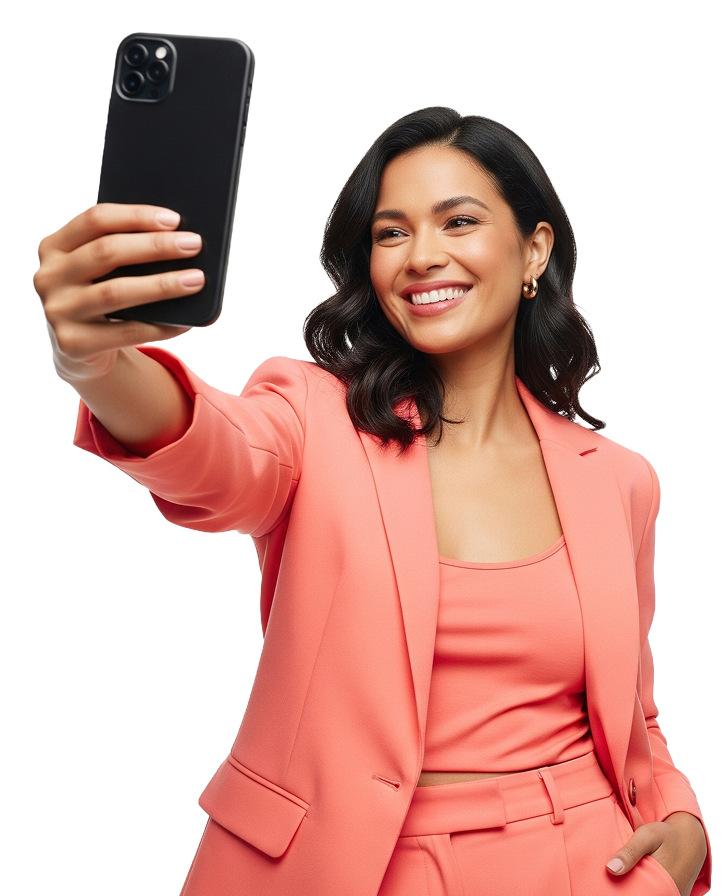
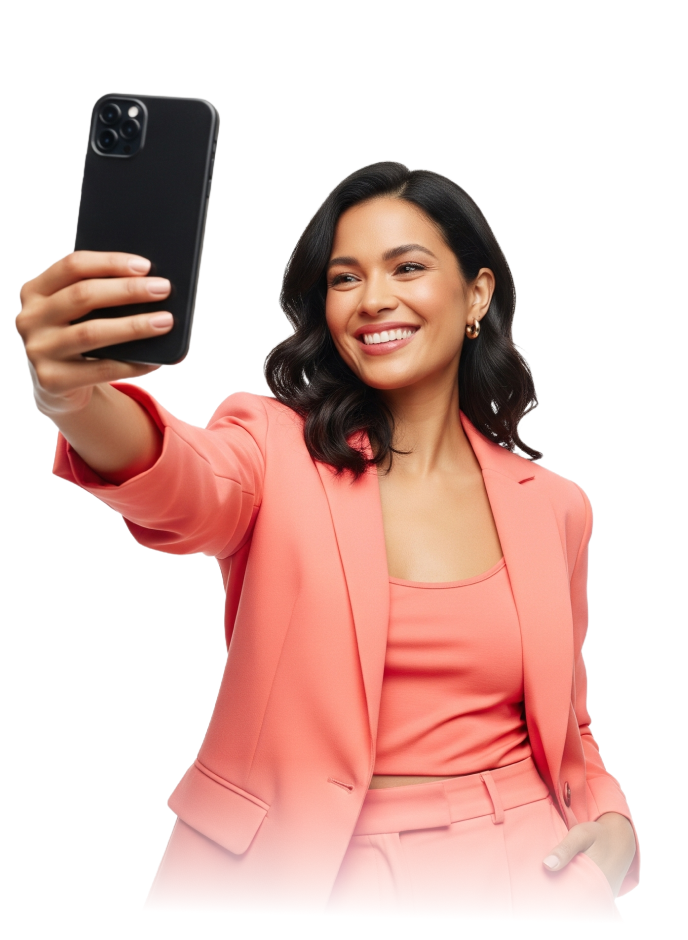
fix: mobile responsiveness

diff --git a/src/components/sections/faq-section.tsx b/src/components/sections/faq-section.tsx
@@ -9,10 +9,8 @@ import {
 import { Container } from "../ui/container";
 import { Avatar, AvatarImage, AvatarFallback } from "../ui/avatar";
 import { PrimaryButton } from "../ui/primary-button";
-import { ArrowRight, ChevronRight } from "lucide-react";
-import Image from "next/image";
+import { ArrowRight } from "lucide-react";
 import Link from "next/link";
-import { HeroIcon } from "../svg/hero-icon";
 
 export interface FAQ {
   question: string;
@@ -23,86 +21,87 @@ const testimonialAvatars = [
   {
     src: "/testimonials/home/ana-paula.jpg",
     alt: "Ana Paula",
-    initials: "AP"
+    initials: "AP",
   },
   {
-    src: "/testimonials/home/carlos-men.jpg", 
+    src: "/testimonials/home/carlos-men.jpg",
     alt: "Carlos Mendes",
-    initials: "CM"
+    initials: "CM",
   },
   {
     src: "/testimonials/home/jorge-santana.jpg",
     alt: "Jorge Santana",
-    initials: "JS"
+    initials: "JS",
   },
   {
     src: "/testimonials/home/maria-silva.jpg",
     alt: "Maria Silva",
-    initials: "MS"
-  }
+    initials: "MS",
+  },
 ];
 
 export default function FAQSection({ faq }: { faq: FAQ[] }) {
   return (
     <section className="w-full py-10 md:py-16 bg-white">
       <Container className="px-4 md:px-6">
-        <div className="flex flex-col md:flex-row gap-8 md:gap-12 lg:gap-16">
-          {/* Left column with title and CTA for desktop */}
-          <div className="w-full md:w-5/12 lg:w-4/12">
-            <div className="md:sticky md:top-20">
+        <div className="flex flex-col lg:flex-row gap-8 lg:gap-12 xl:gap-16">
+          {/* Left column: Title, description, testimonials, CTA */}
+          <div className="w-full lg:w-5/12 xl:w-4/12 order-1 lg:order-1">
+            <div className="lg:sticky lg:top-20">
               <h2 className="text-2xl md:text-3xl font-bold mb-4 md:mb-6">
                 Perguntas frequentes
               </h2>
-              <p className="text-gray-700 mb-6 hidden md:block">
-                Tudo que você precisa saber sobre a Pandami, desde a compra à usabilidade.
+              <p className="text-gray-700 mb-6 md:mb-8">
+                Tudo que você precisa saber sobre a Pandami, desde a compra à
+                usabilidade.
               </p>
-              
-              {/* Testimonial avatars */}
-              <div className="hidden md:block mt-8">
+
+              {/* Testimonials and CTA - positioned after description on mobile, sticky on desktop */}
+              <div className="flex flex-col gap-4">
                 <div className="flex flex-col gap-2">
-                  <div className="flex -space-x-2">
+                  <div className="flex -space-x-2 justify-center lg:justify-start">
                     {testimonialAvatars.map((avatar, i) => (
-                      <Avatar key={i} className="border-2 border-white h-9 w-9">
+                      <Avatar
+                        key={i}
+                        className="border-2 border-white h-8 w-8 md:h-9 md:w-9"
+                      >
                         <AvatarImage src={avatar.src} alt={avatar.alt} />
                         <AvatarFallback>{avatar.initials}</AvatarFallback>
                       </Avatar>
                     ))}
                   </div>
-                  <p className="text-sm text-gray-600">
+                  <p className="text-sm text-gray-600 text-center lg:text-left">
                     +2 mil homens e mulheres já descobriram sua melhor versão
                   </p>
-                  <div className="mt-2">
-                    <Link href="/#">
-                      <PrimaryButton
-                        size="lg"
-                        icon={<ArrowRight className="h-4 w-4" />}
-                        className="w-full md:w-auto justify-center"
-                      >
-                        Comece grátis
-                      </PrimaryButton>
-                    </Link>
-                  </div>
+                </div>
+                <div className="flex justify-center lg:justify-start">
+                  <Link href="/#" className="w-full">
+                    <PrimaryButton
+                      size="lg"
+                      icon={<ArrowRight className="h-4 w-4" />}
+                      className="w-full md:w-auto"
+                    >
+                      Comece grátis
+                    </PrimaryButton>
+                  </Link>
                 </div>
               </div>
             </div>
           </div>
 
-          {/* Right column with accordion */}
-          <div className="w-full md:w-7/12 lg:w-8/12">
-            {/* Mobile version of the subtitle */}
-            <p className="text-gray-700 mb-6 md:hidden">
-              Tudo que você precisa saber sobre a Pandami, desde a compra à usabilidade.
-            </p>
-            
+          {/* Right column: Accordion */}
+          <div className="w-full lg:w-7/12 xl:w-8/12 order-2 lg:order-2">
             <Accordion type="single" collapsible className="space-y-2">
               {faq.map((item, index) => (
-                <AccordionItem 
-                  key={`faq-${index}`} 
-                  value={`faq-${index}`} 
+                <AccordionItem
+                  key={`faq-${index}`}
+                  value={`faq-${index}`}
                   className="border-b border-gray-200 overflow-hidden"
                 >
                   <AccordionTrigger className="px-2 py-4 hover:no-underline text-left">
-                    <span className="text-left font-medium text-sm md:text-base">{item.question}</span>
+                    <span className="text-left font-medium text-sm md:text-base font-sans">
+                      {item.question}
+                    </span>
                   </AccordionTrigger>
                   <AccordionContent className="px-2 pb-4 pt-0">
                     <p className="text-gray-600 text-sm md:text-base">
@@ -112,32 +111,6 @@ export default function FAQSection({ faq }: { faq: FAQ[] }) {
                 </AccordionItem>
               ))}
             </Accordion>
-          </div>
-        </div>
-        
-        {/* Mobile testimonial and CTA */}
-        <div id="faq" className="mt-8 md:hidden">
-          <div className="flex items-center justify-center flex-col">
-            <div className="flex -space-x-2 mb-2">
-              {testimonialAvatars.map((avatar, i) => (
-                <Avatar key={i} className="border-2 border-white h-8 w-8">
-                  <AvatarImage src={avatar.src} alt={avatar.alt} />
-                  <AvatarFallback>{avatar.initials}</AvatarFallback>
-                </Avatar>
-              ))}
-            </div>
-            <p className="text-xs text-gray-600 text-center mb-4">
-              +2 mil homens e mulheres já descobriram sua melhor versão
-            </p>
-            <Link href="/#">
-              <PrimaryButton
-                size="lg"
-                icon={<ChevronRight className="h-16 w-16" />}
-                className="w-full justify-center"
-              >
-                Comece grátis
-              </PrimaryButton>
-            </Link>
           </div>
         </div>
       </Container>

diff --git a/src/components/header.tsx b/src/components/header.tsx
@@ -75,7 +75,7 @@ export function Header() {
   return (
     <>
       {/* Header Principal - Desktop e Mobile */}
-      <header className={`w-full border-b py-4 fixed top-0 left-0 right-0 z-50 ${isScrolled ? 'bg-background/80 backdrop-blur-md' : 'bg-background/60 backdrop-blur-sm'}`}>
+      <header className={`w-screen border-b py-4 fixed top-0 left-0 right-0 z-50 ${isScrolled ? 'bg-background/80 backdrop-blur-md' : 'bg-background/60 backdrop-blur-sm'}`}>
         <Container>
           <div className="flex items-center justify-between w-full">
             {/* Logo */}
@@ -96,7 +96,7 @@ export function Header() {
             </div>
 
             {/* Nav Items - Apenas Desktop */}
-            <nav className="hidden md:flex items-center justify-center flex-1">
+            <nav className="hidden lg:flex items-center justify-center flex-1">
               {navItems.map((item) => (
                 <div key={item.title} className="mr-8 last:mr-0">
                   {item.hasDropdown ? (
@@ -124,7 +124,7 @@ export function Header() {
             </nav>
 
             {/* Botões e controles - Desktop */}
-            <div className="hidden md:flex items-center space-x-4 flex-1 justify-end">
+            <div className="hidden lg:flex items-center space-x-4 flex-1 justify-end">
               <ThemeToggle />
 
               <button
@@ -147,7 +147,7 @@ export function Header() {
             </div>
 
             {/* Menu Mobile Toggle */}
-            <div className="md:hidden flex items-center gap-2">
+            <div className="lg:hidden flex items-center gap-2">
               <ThemeToggle />
               <button
                 className="p-2 rounded-md hover:bg-accent"
@@ -262,7 +262,7 @@ export function Header() {
       {/* Dropdown de Idioma */}
       {activeDropdown === 'language' && (
         <div 
-          className="absolute md:fixed top-[82px] right-4 md:right-80 z-50 bg-background/95 backdrop-blur-md border border-border rounded-md shadow-lg"
+          className="absolute lg:fixed top-[82px] right-4 lg:right-80 z-50 bg-background/95 backdrop-blur-md border border-border rounded-md shadow-lg"
           onClick={(e) => e.stopPropagation()}
         >
           <div className="py-2">

diff --git a/src/components/sections/cta-section.tsx b/src/components/sections/cta-section.tsx
@@ -12,7 +12,7 @@ export const CtaSection: React.FC = () => {
 			<Container>
 				{" "}
 				<div className="relative">
-					<div className="px-6 md:px-16 py-8 bg-orange-50 rounded-2xl flex flex-col md:flex-row-reverse justify-between items-center gap-8 md:gap-10 overflow-hidden ">
+					<div className="px-6 md:px-16 py-8 mt-96 md:mt-0 bg-orange-50 rounded-2xl flex flex-col-reverse md:flex-row-reverse justify-between items-center gap-8 md:gap-10 overflow-hidden ">
 						{/* Textos e botão */}
 						<div className="w-full md:w-1/2 lg:max-w-[560px] flex flex-col gap-6 z-10">
 							<div className="flex flex-col gap-3">
@@ -30,7 +30,7 @@ export const CtaSection: React.FC = () => {
 								<PrimaryButton
 									size="lg"
 									icon={<ArrowRight className="h-4 w-4" />}
-									className="max-w-72 px-4"
+									className="w-full md:max-w-72 px-4"
 								>
 									Comece grátis
 								</PrimaryButton>
@@ -40,17 +40,17 @@ export const CtaSection: React.FC = () => {
 						{/* Imagem */}
 						{/* Elementos decorativos */}
 						<div className="relative right-1/2  -mb-20 md:left-auto md:right-10 md:translate-x-0 z-0 opacity-40 md:opacity-70">
-							<div className="w-[489px] h-[252px] md:w-full md:h-full">
+							<div className="w-96 h-64 lg:w-full lg:h-full -rotate-45 md:rotate-0">
 								<HeroIcon className="w-full h-full" />
 							</div>
 						</div>
-						<div className="md:absolute md:left-24 md:bottom-0 z-20">
+						<div className="absolute -top-[200px] md:-top-[140px] md:left-24 z-20">
 							<Image
 								src="/lp/images/ctasection/ctaSection_womanImage.png"
 								alt="Mulher usando o visagismo Pandami"
 								width={400}
 								height={500}
-								className="w-full h-auto md:w-96 md:h-128"
+								className="w-80 h-auto max-w-96  md:w-96 md:h-128"
 							/>
 						</div>
 

diff --git a/styles/globals.css b/styles/globals.css
@@ -84,6 +84,36 @@
     @apply bg-background text-foreground;
     font-feature-settings: "rlig" 1, "calt" 1;
   }
+
+  /* Headings responsivos */
+  h1 {
+    @apply font-fahkwang text-4xl sm:text-5xl md:text-6xl lg:text-7xl font-bold text-gray-900;
+  }
+
+  h2 {
+    @apply font-fahkwang text-3xl sm:text-4xl md:text-5xl lg:text-6xl font-bold text-gray-900;
+  }
+
+  h3 {
+    @apply font-fahkwang text-2xl sm:text-3xl md:text-4xl lg:text-5xl font-bold text-gray-900;
+  }
+
+  h4 {
+    @apply font-fahkwang text-xl sm:text-2xl md:text-3xl lg:text-4xl font-semibold text-gray-900;
+  }
+
+  h5 {
+    @apply font-fahkwang text-lg sm:text-xl md:text-2xl lg:text-3xl font-semibold text-gray-900;
+  }
+
+  h6 {
+    @apply font-fahkwang text-base sm:text-lg md:text-xl lg:text-2xl font-semibold text-gray-900;
+  }
+
+  /* Parágrafos responsivos */
+  p {
+    @apply text-base sm:text-lg md:text-xl lg:text-2xl leading-[140%] text-gray-700 font-normal;
+  }
 }
 
 :root {

diff --git a/src/components/sections/about-visagism-section.tsx b/src/components/sections/about-visagism-section.tsx
@@ -196,7 +196,7 @@ function GenderContent({ data, direction }: GenderContentProps) {
         <div className="flex flex-col md:flex-row gap-4 mt-2">
           <PrimaryButton
             size="lg"
-            className="flex-1"
+           
             icon={<ArrowRight className="h-4 w-4 md:h-5 md:w-5" />}
           >
             Comece grátis
@@ -204,7 +204,7 @@ function GenderContent({ data, direction }: GenderContentProps) {
           <PrimaryButton
             size="lg"
             variant="outline"
-            className="flex-1"
+        
           >
             Quero no meu salão
           </PrimaryButton>
